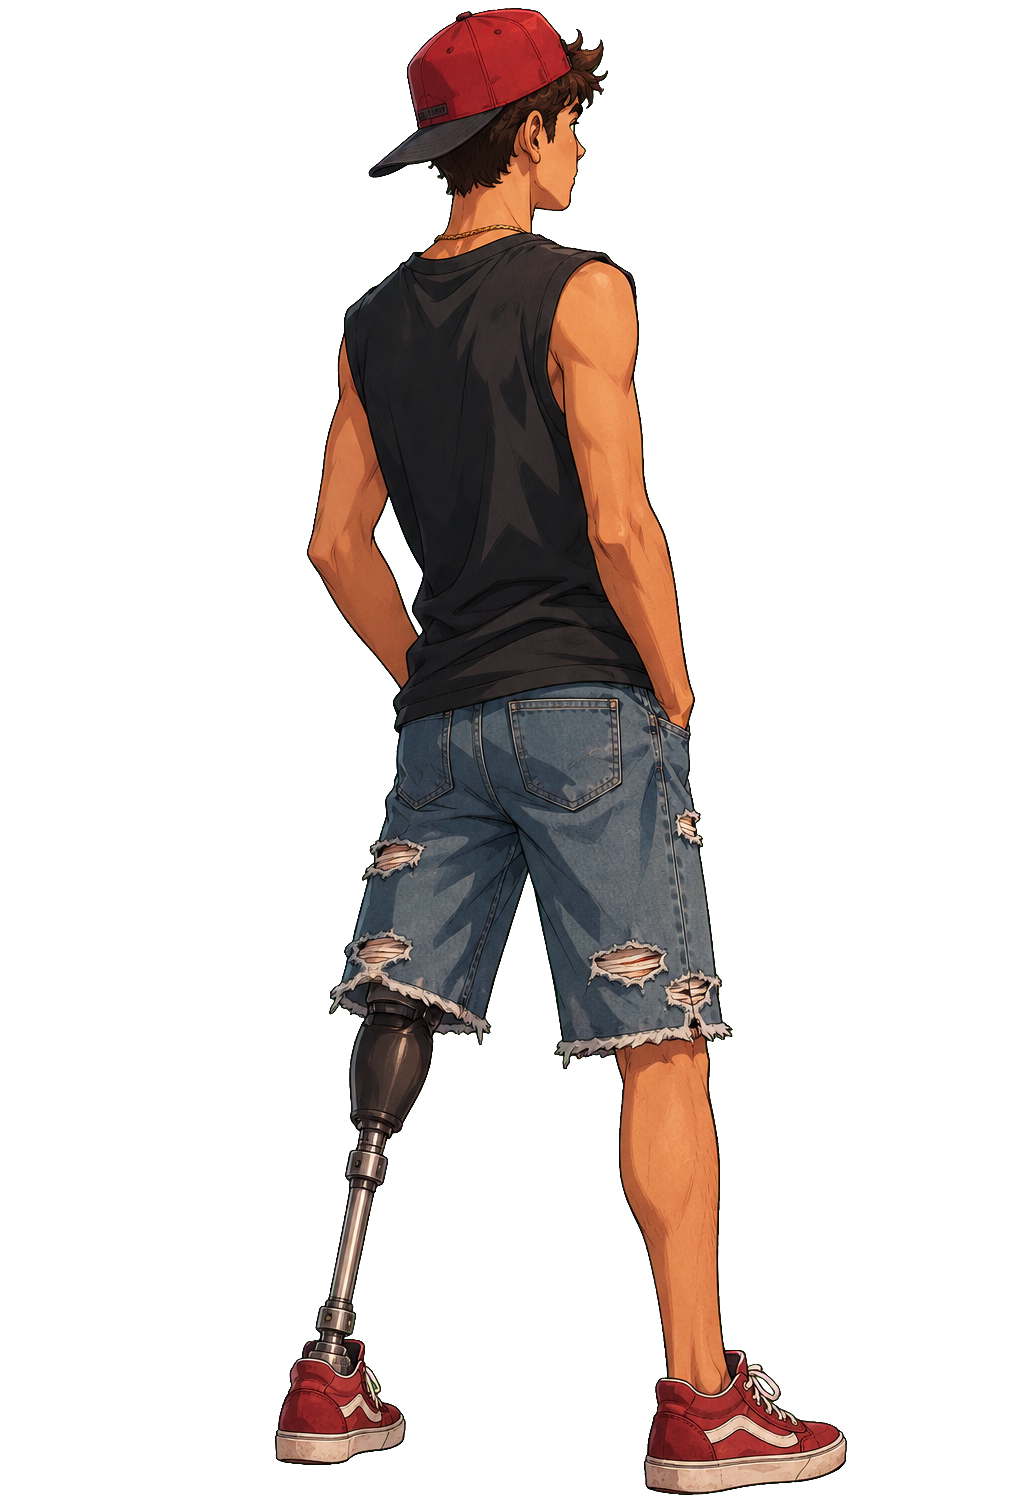
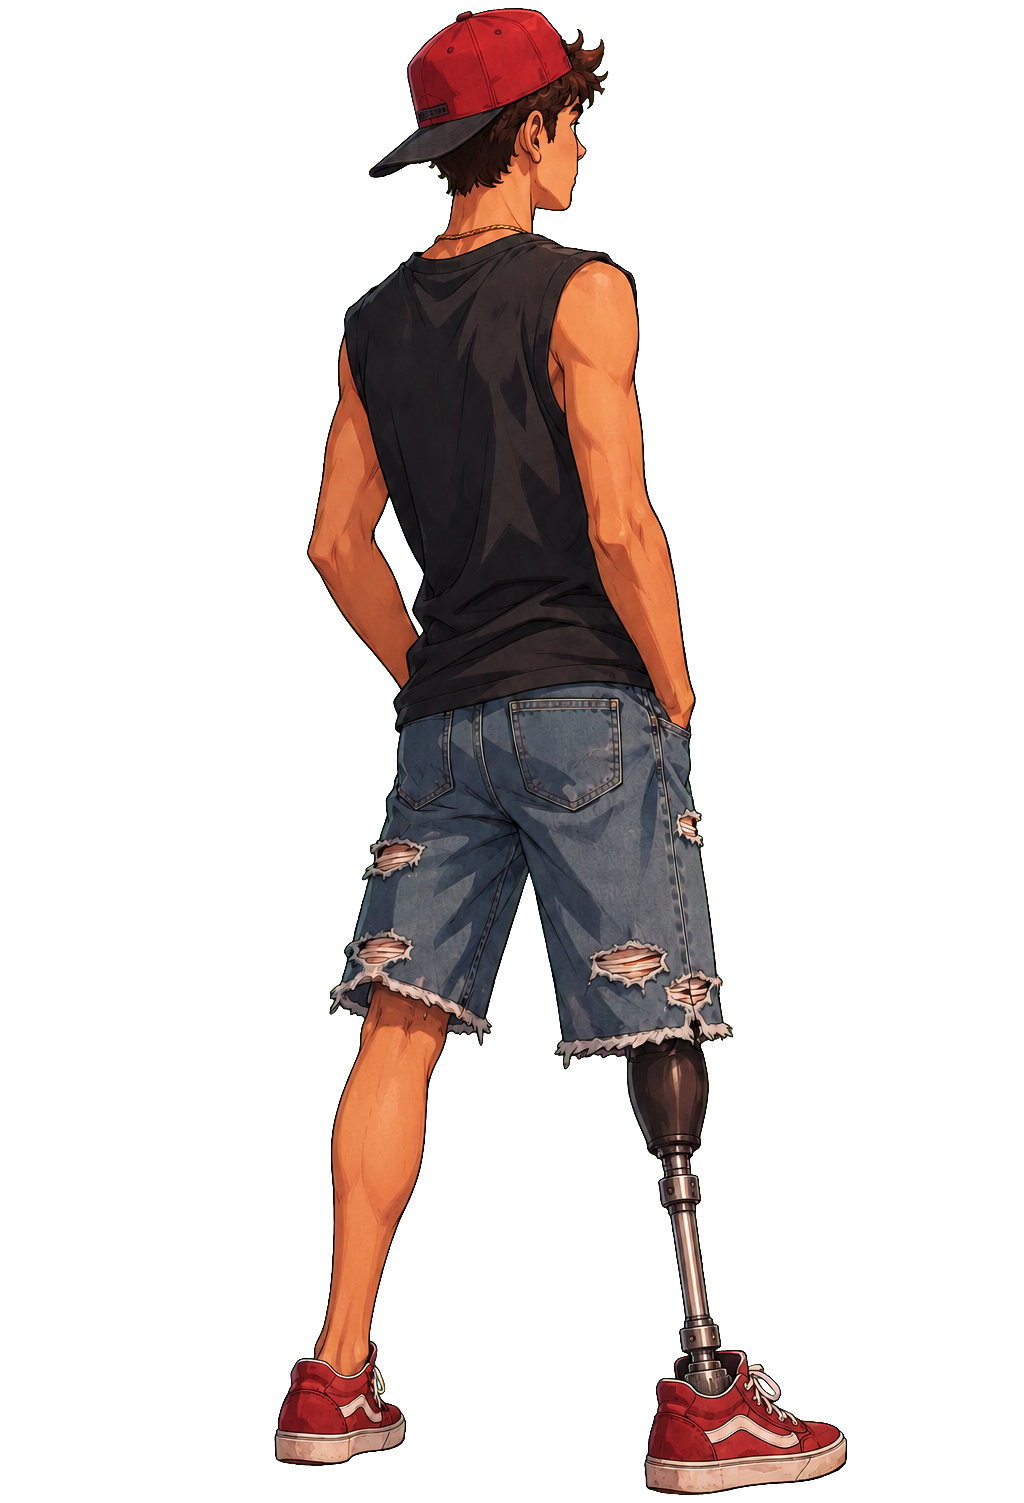
toni: final idle (prosthetic redrawn on the other leg in a fresh chat) and kick; these two are the reference
Claude-Session: https://claude.ai/code/session_01NK9iDXTyx3wBvzPstrXWEG

diff --git a/docs/ART_SPEC.fa.md b/docs/ART_SPEC.fa.md
@@ -127,7 +127,7 @@ Same cartoon character, same style, same scale, same three-quarter back view as 
 * rima: `a scrappy 12-year-old Lebanese girl, wild curly black hair in a loose ponytail, an oversized faded football jersey, rolled-up jeans, scuffed sneakers, a plaster on one elbow`
 * zaatar: `a young cartoon Syrian kid, short curly hair, an olive-green tracksuit with white stripes, sneakers` (⚠ «skinny 11-year-old» را فیلترِ ChatGPT رد کرد: سنِ دقیق و صفتِ بدنی برای بچه ننویس)
 * fulla (⚠ چپپا: در پرامپتِ ضربه «with the LEFT foot»): `a young cartoon girl from Alexandria, two long braids tied with small white jasmine flowers, a sea-blue dress over leggings, white sneakers`
-* toni: `a cocky cartoon Beirut street teenager with a below-the-knee prosthetic LEFT leg (a sporty metal prosthesis with a red sneaker on it, clearly visible), baseball cap worn backwards, black sleeveless t-shirt, thin gold chain, ripped denim shorts, red sneakers` (⚠ معلولیت عمدی است، کاربر: «همه سالم نباشن»)
+* toni: `a cocky cartoon Beirut street teenager with a below-the-knee prosthetic leg (the leg on the RIGHT side of the picture when standing) (a sporty metal prosthesis with a red sneaker on it, clearly visible), baseball cap worn backwards, black sleeveless t-shirt, thin gold chain, ripped denim shorts, red sneakers` (⚠ معلولیت عمدی است، کاربر: «همه سالم نباشن»)
 
 ## جملههای فحشِ صاحبخانه (برای ضبط)
 
